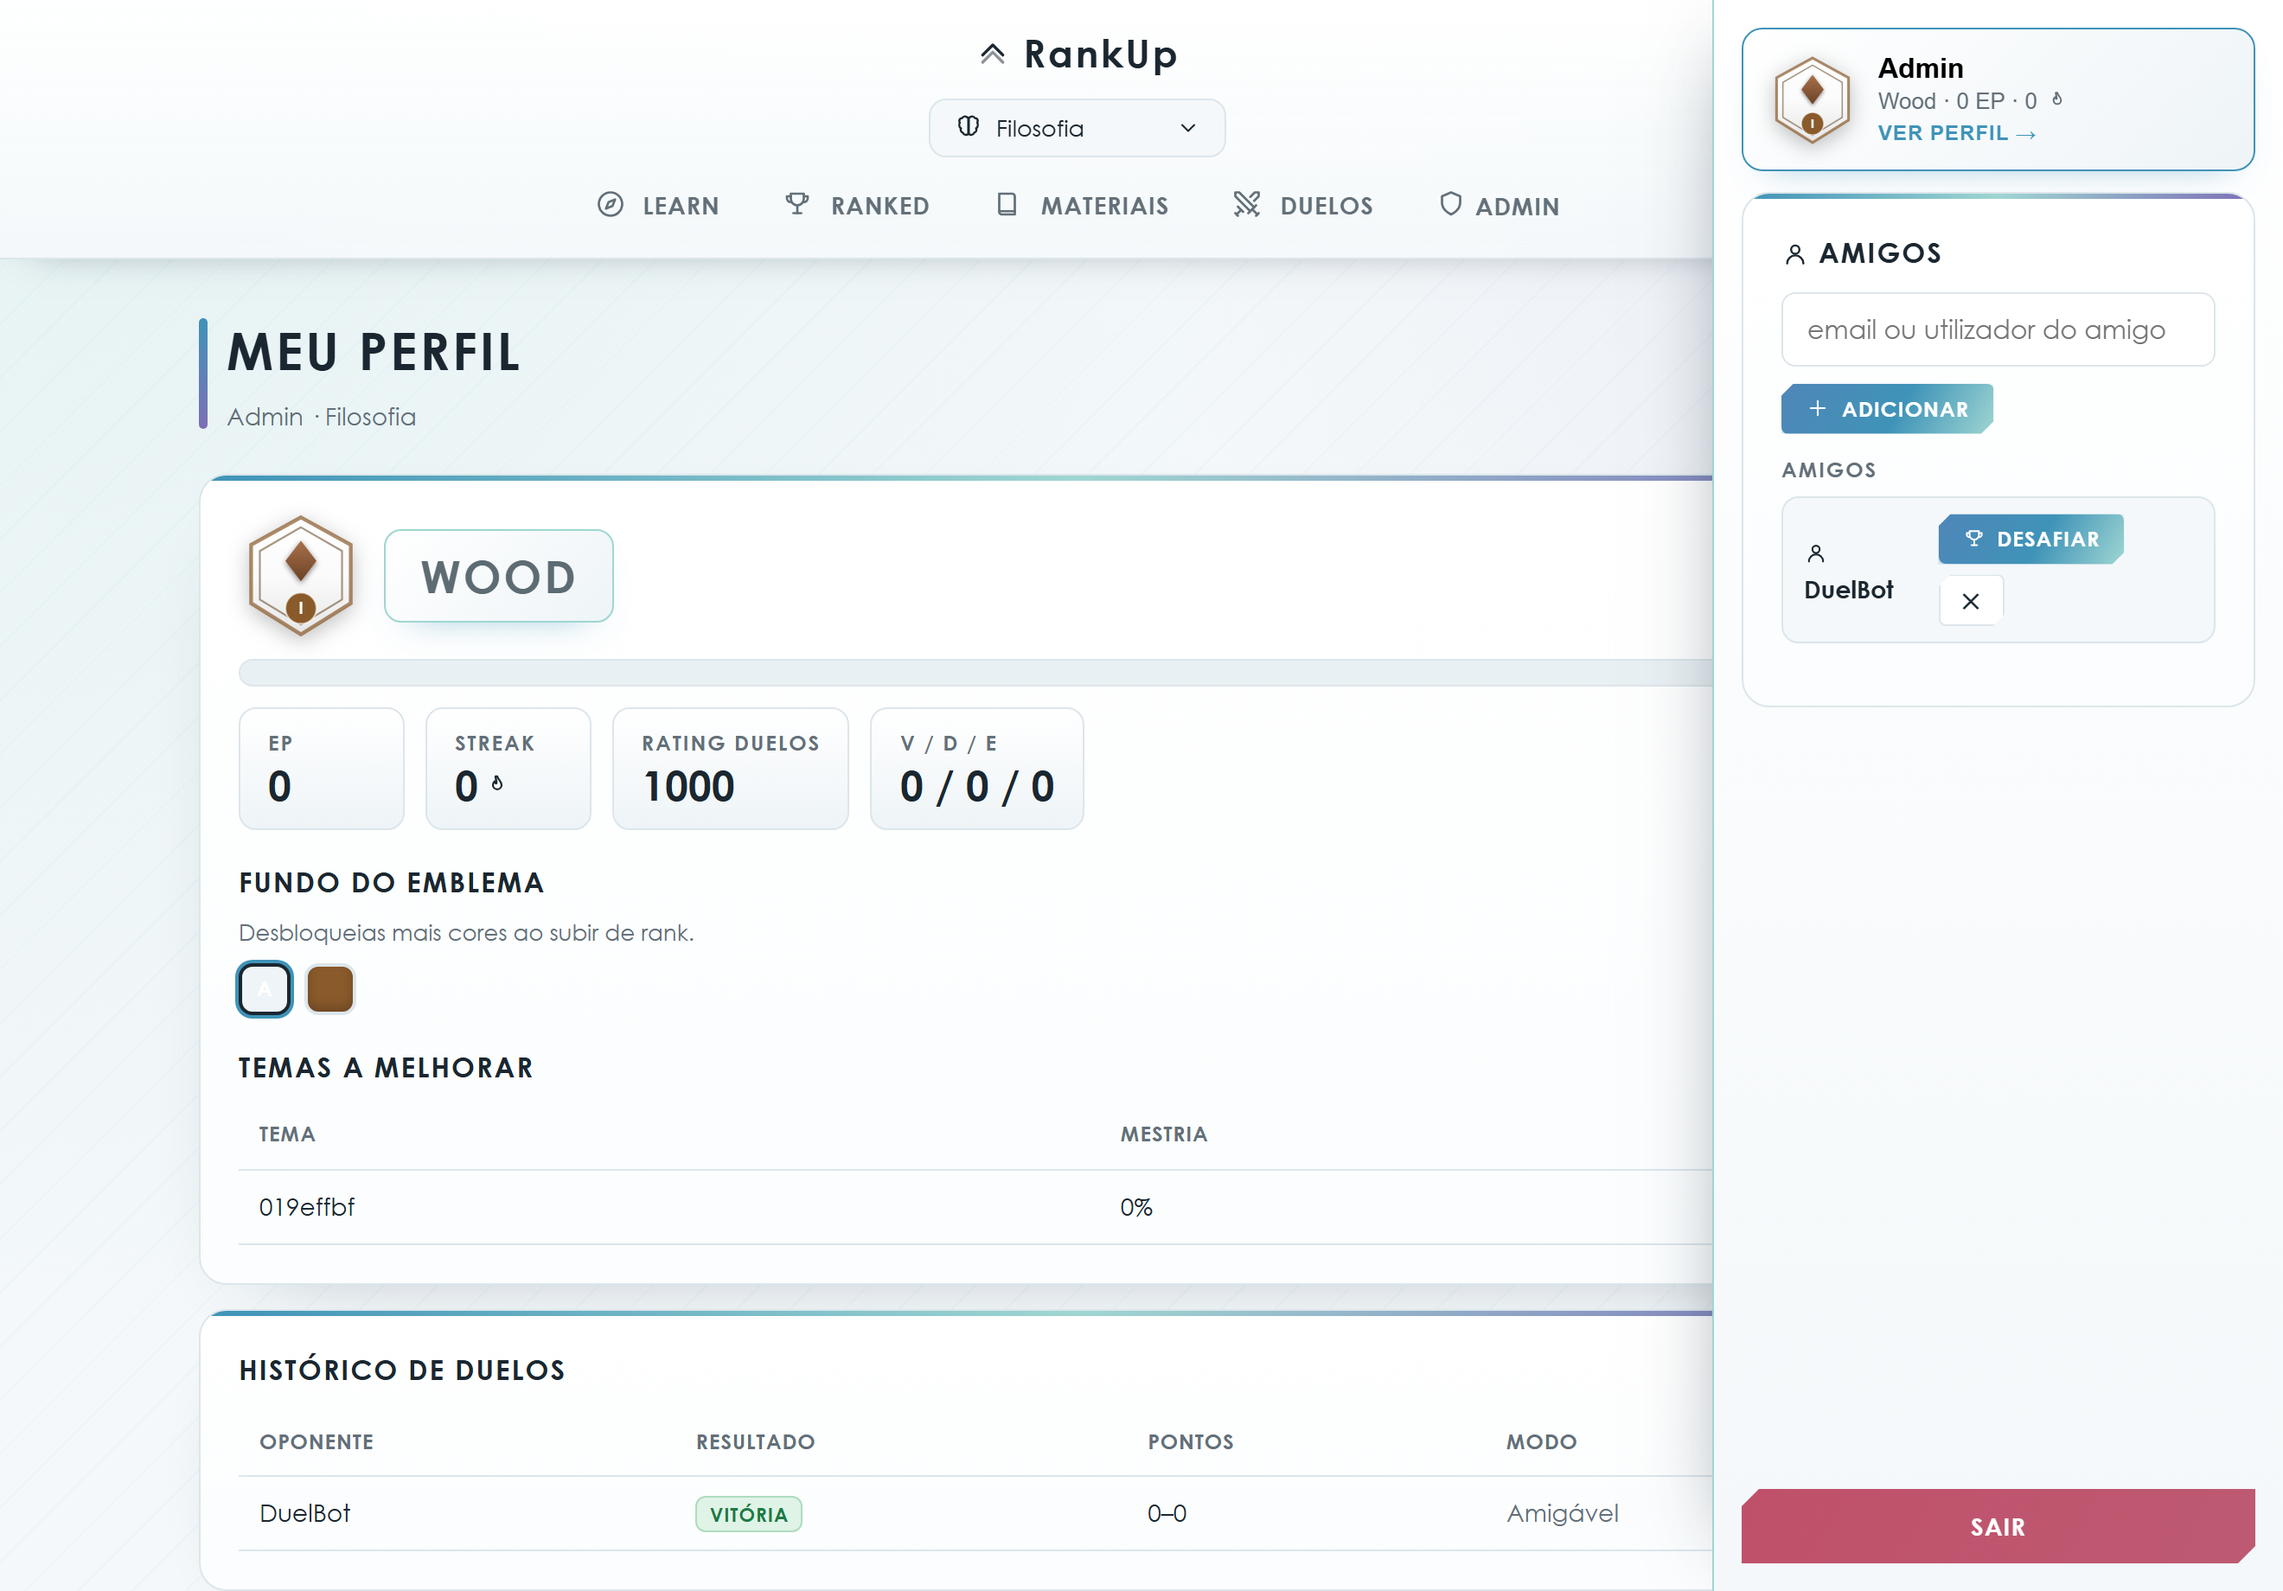
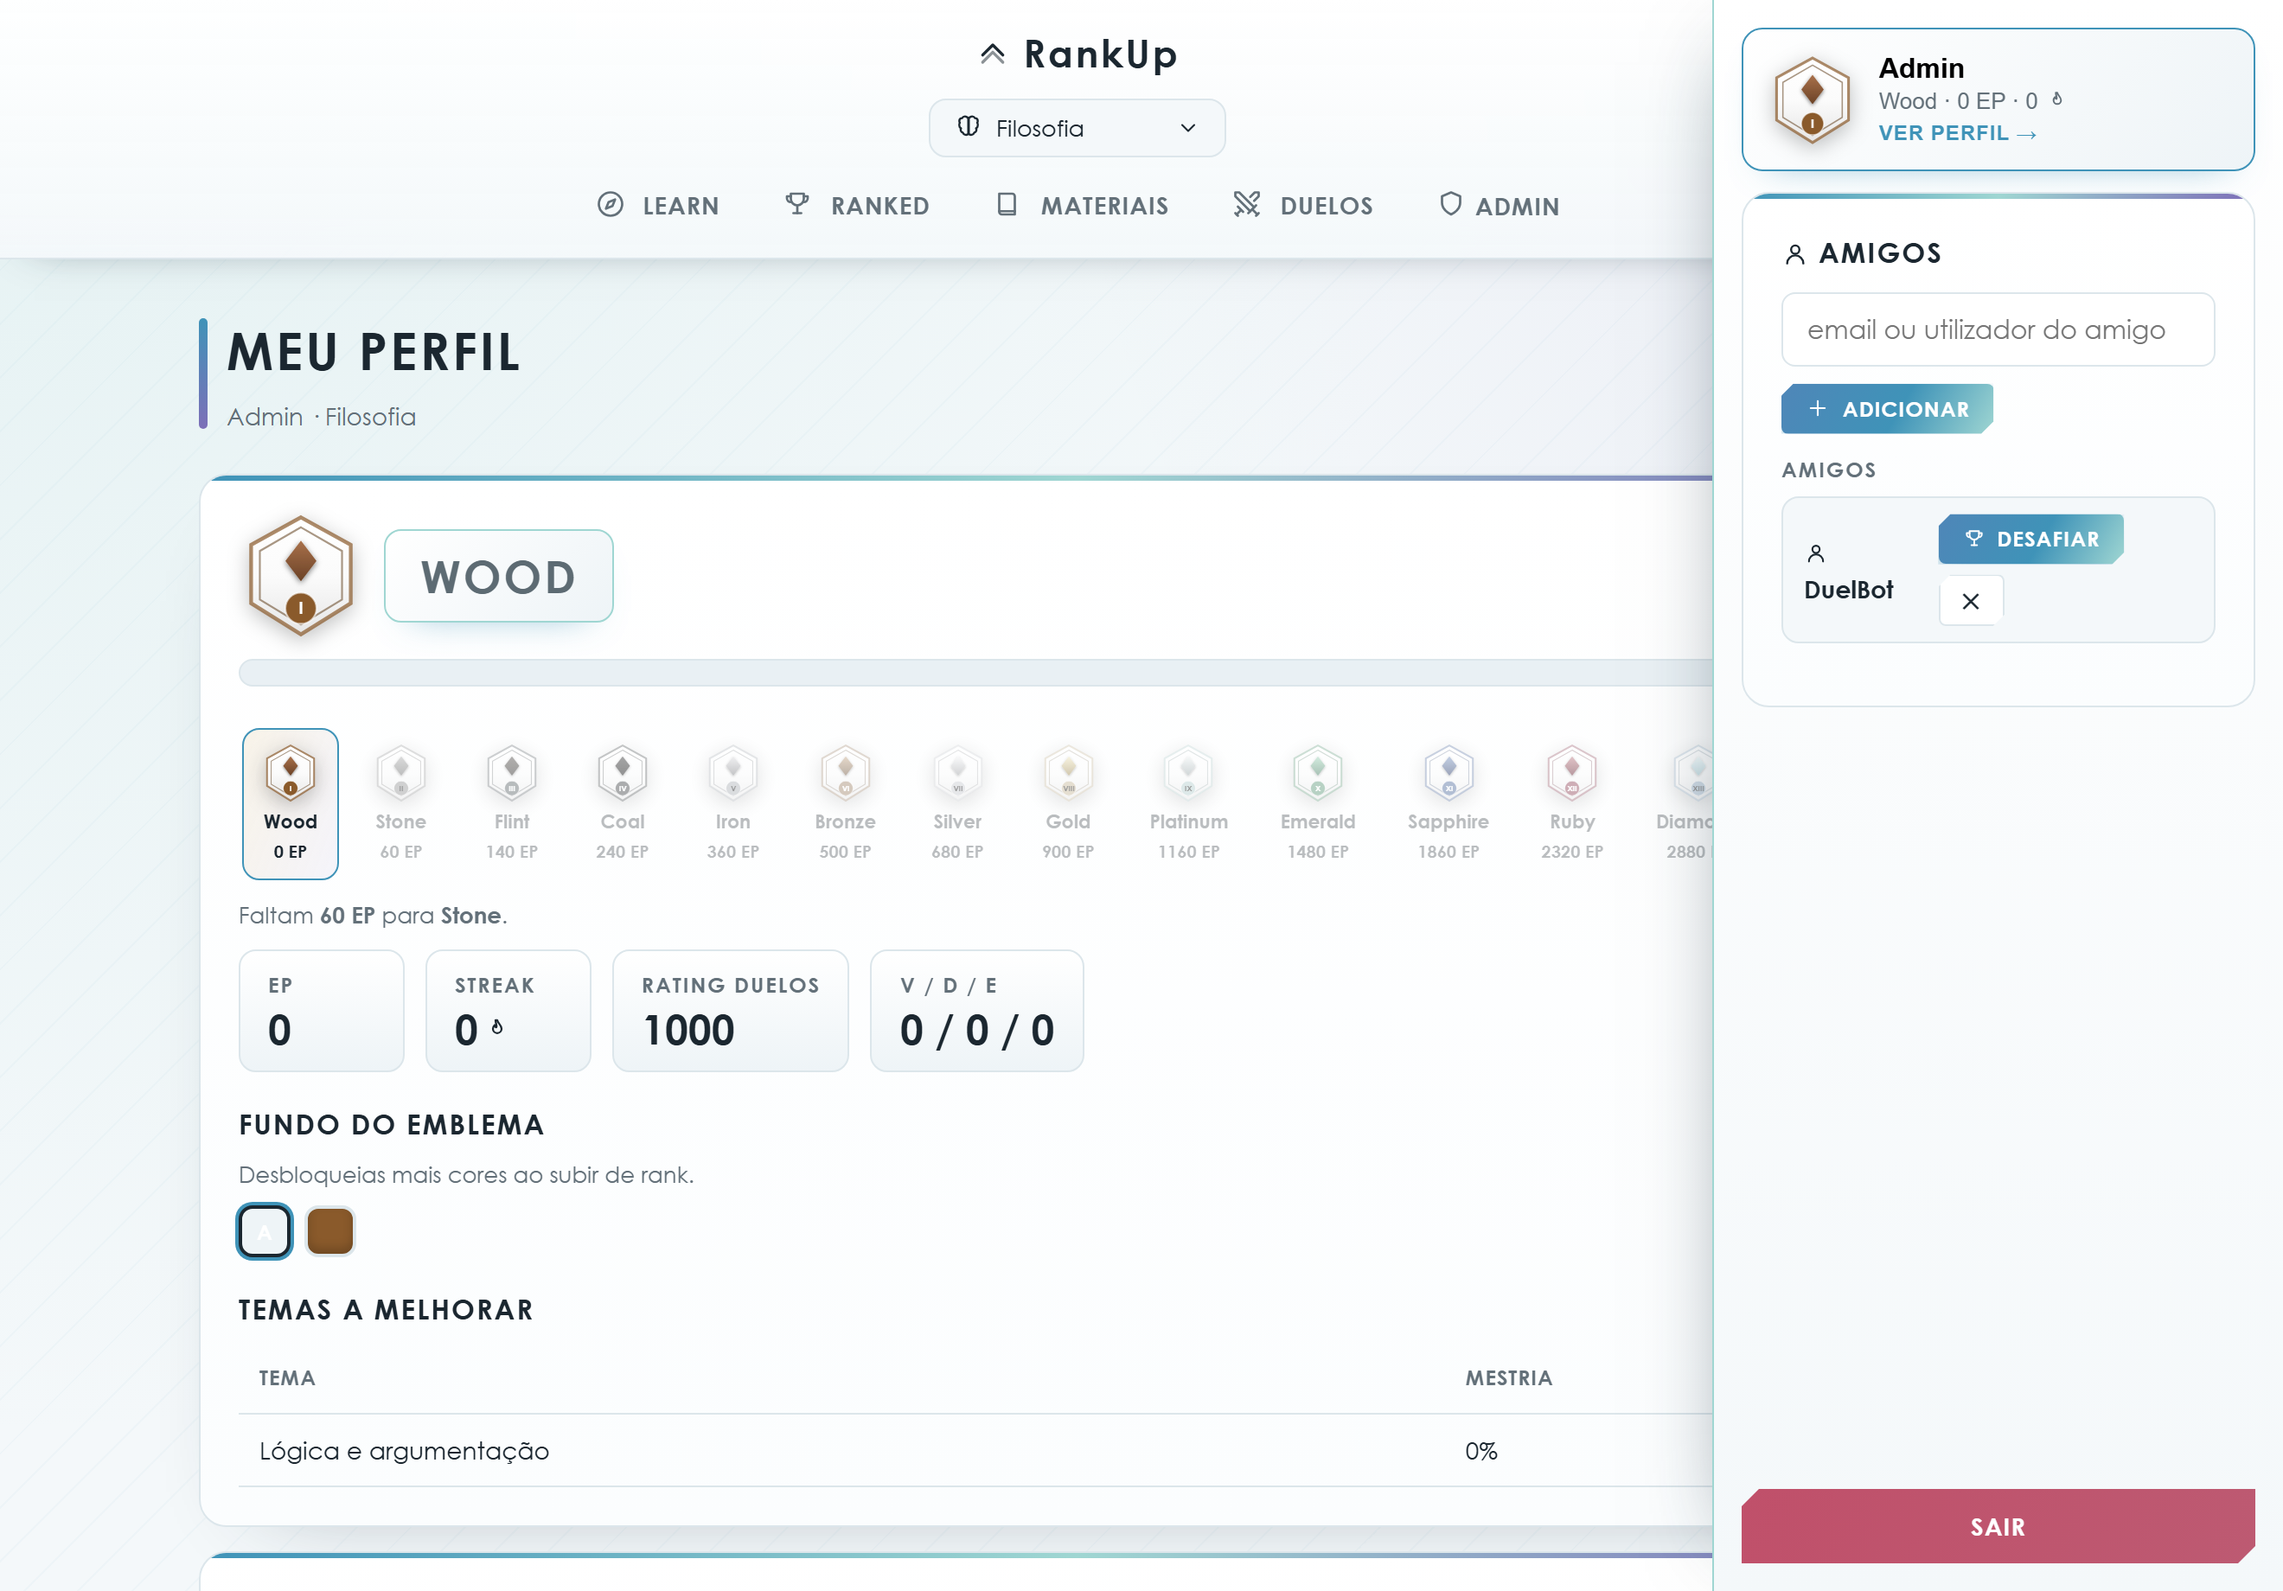
Admin: export accounts as CSV; refresh docs screenshots

diff --git a/backend/web/app.js b/backend/web/app.js
@@ -1616,9 +1616,22 @@ async function showAdminTab(tab) {
     wireAddDiscipline();
     wireTableSearch($("#subjSearch"), $("#subjTable"));
   } else if (tab === "contas") {
-    p.innerHTML = `<div class="card"><h3 style="font-size:16px;margin-bottom:10px">Contas</h3>${searchBar("userSearch", "Procurar por nome ou email…")}<div id="adm">…</div></div>`;
+    p.innerHTML = `<div class="card"><div class="row" style="justify-content:space-between;margin-bottom:10px"><h3 style="font-size:16px">Contas</h3><button class="btn btn--ghost btn--sm" id="csvUsers">${icon("doc", 14)} Exportar CSV</button></div>${searchBar("userSearch", "Procurar por nome ou email…")}<div id="adm">…</div></div>`;
     await renderUsers();
     wireTableSearch($("#userSearch"), $("#adm"));
+    $("#csvUsers").onclick = async () => {
+      try {
+        const users = await api("/admin/users");
+        const cols = ["display_name", "username", "email", "role", "plan"];
+        const csvCell = (v) => `"${String(v ?? "").replace(/"/g, '""')}"`;
+        const csv = [cols.join(";")].concat(users.map((u) => cols.map((c) => csvCell(u[c])).join(";"))).join("\r\n");
+        const a = document.createElement("a");
+        a.href = URL.createObjectURL(new Blob(["" + csv], { type: "text/csv;charset=utf-8" }));
+        a.download = "rankup-contas.csv";
+        a.click();
+        URL.revokeObjectURL(a.href);
+      } catch (e) { toast(e.message); }
+    };
   } else if (tab === "ranks") {
     p.innerHTML = `<div class="card"><h3 style="font-size:16px;margin-bottom:10px">EP por rank (Filosofia)</h3>
       <div class="tier-layout"><div><div class="tier-edit" id="tierEdit"></div>

diff --git a/backend/web/index.html b/backend/web/index.html
@@ -80,6 +80,6 @@
 
 <div id="modal" class="modal"></div>
 <div id="toast" class="toast"></div>
-<script src="/app.js?v=35"></script>
+<script src="/app.js?v=36"></script>
 </body>
 </html>
